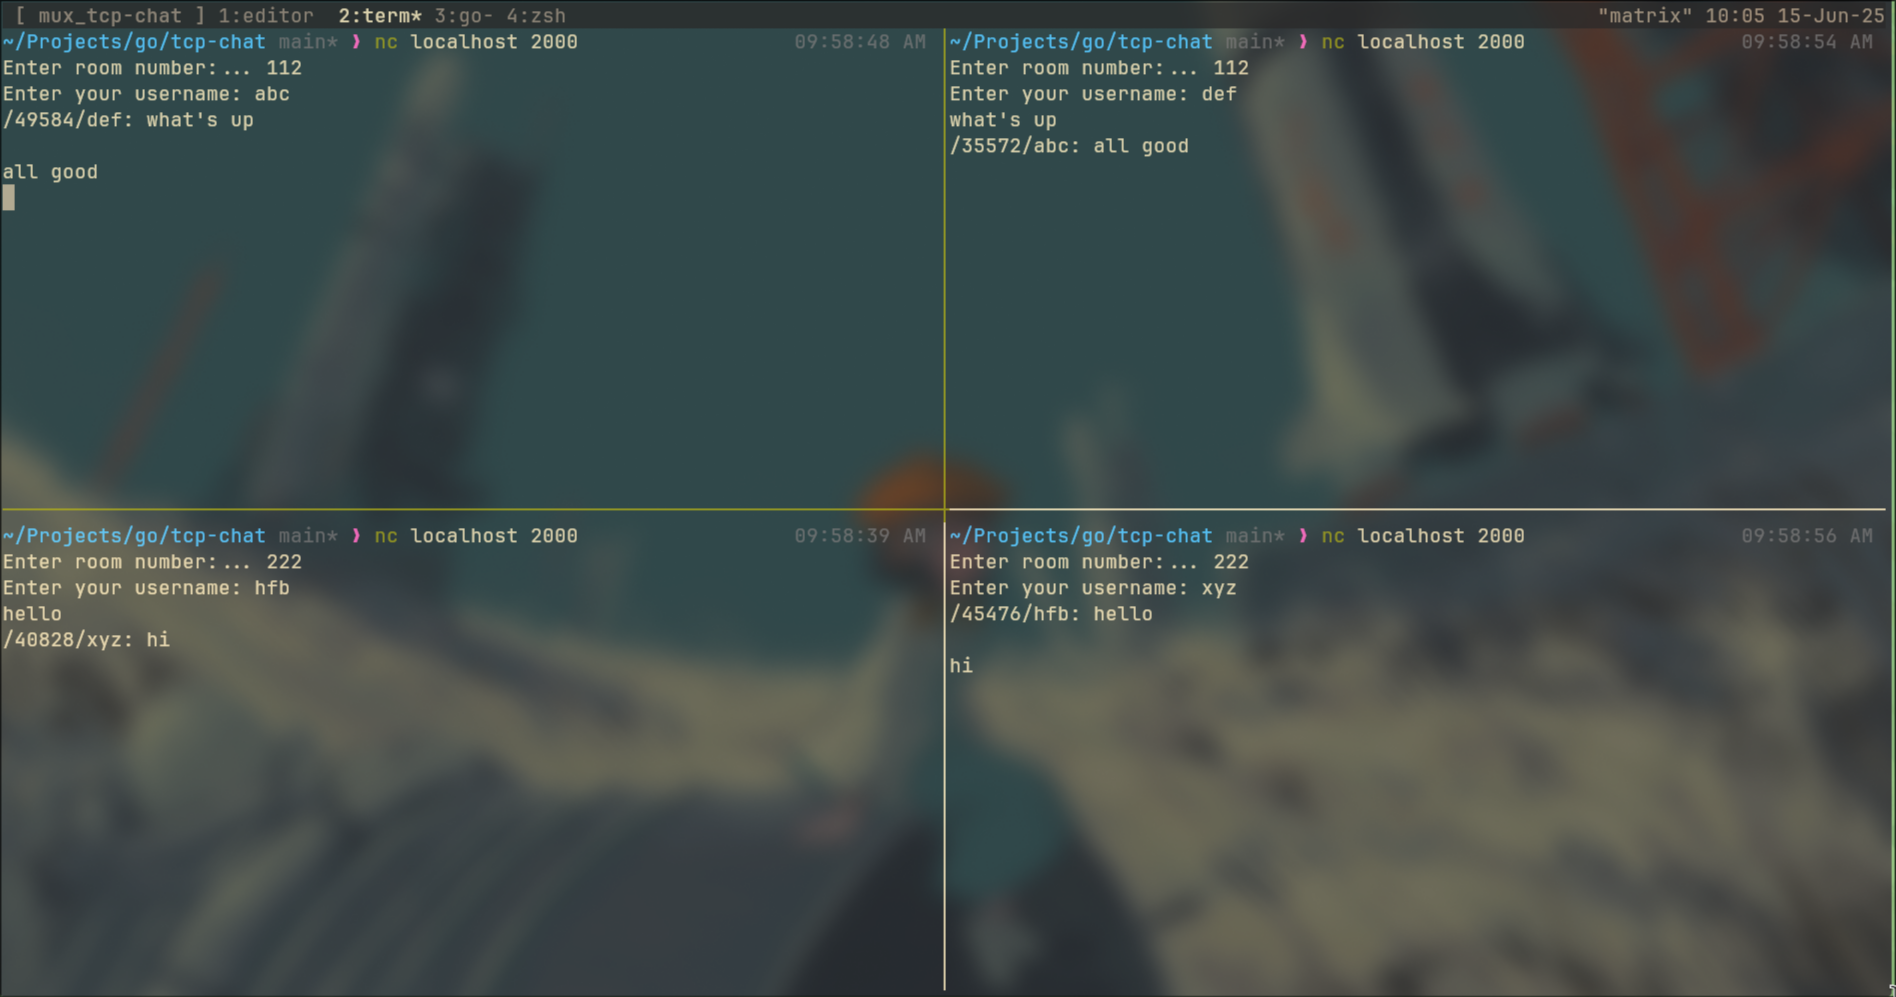
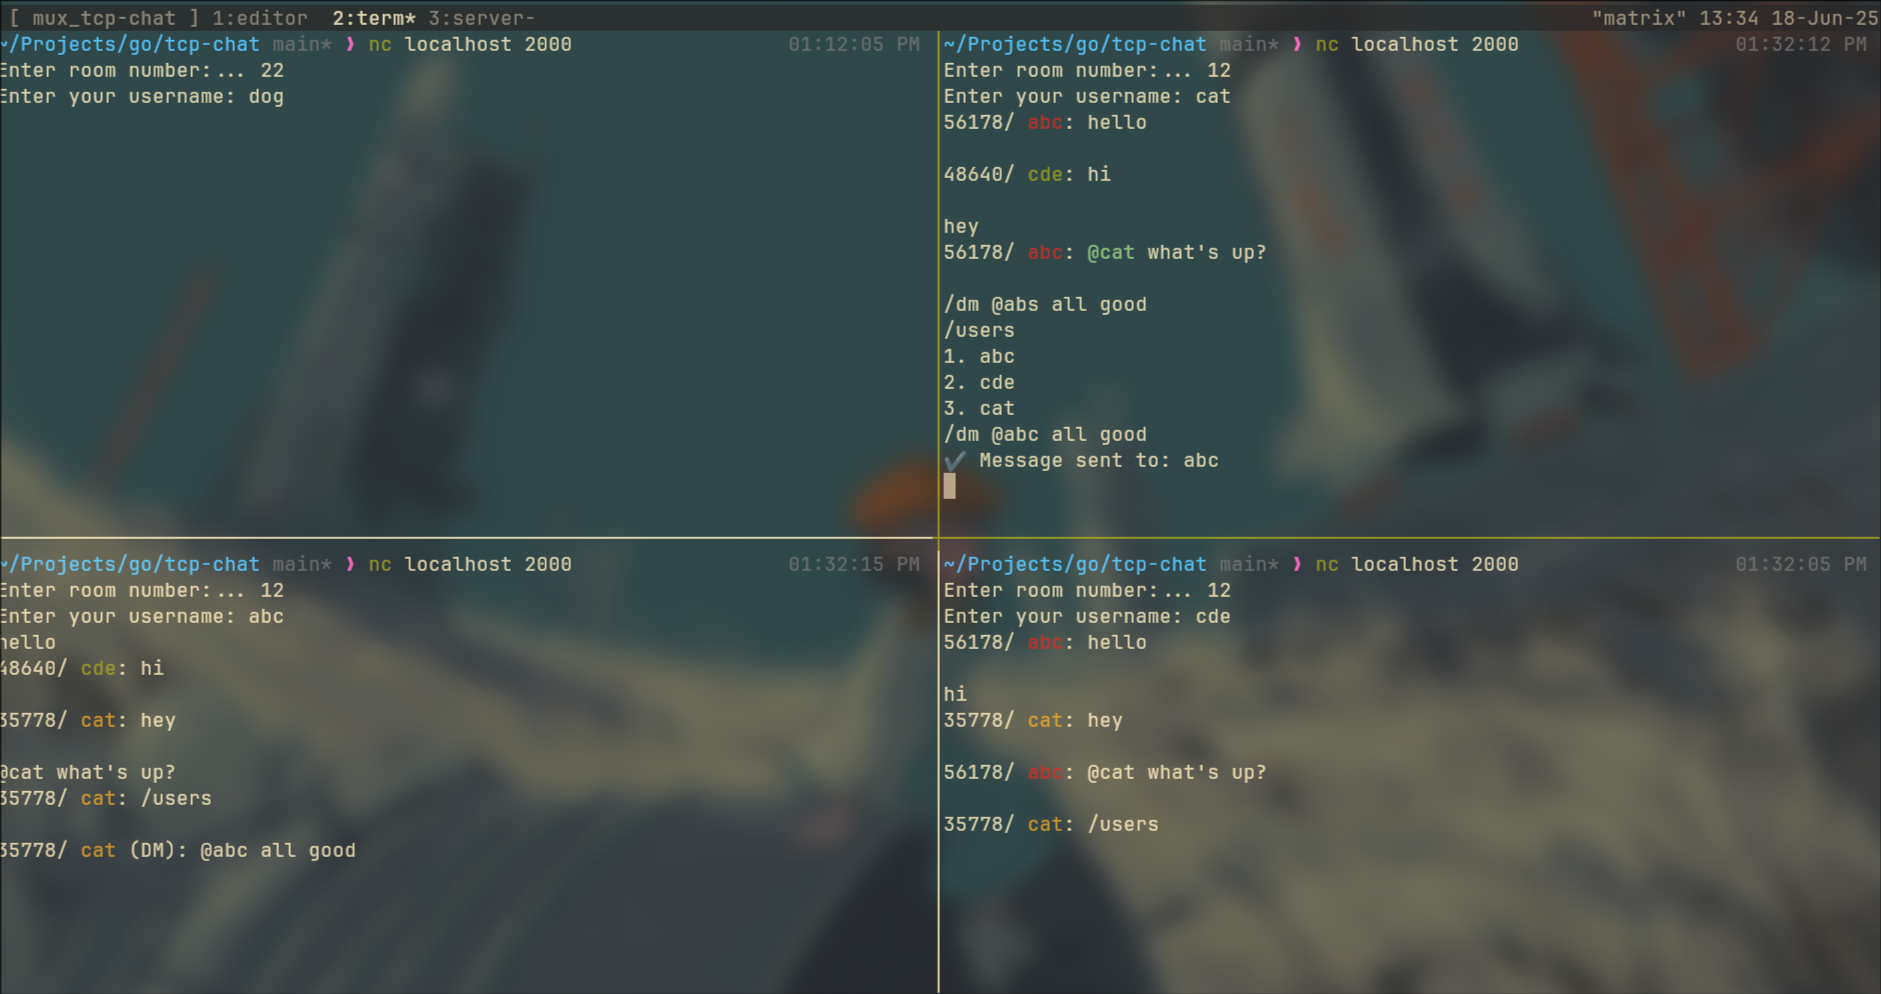
minor fix

diff --git a/room.go b/room.go
@@ -76,7 +76,10 @@ func GetCreateRoom(id RoomId) *Room {
 	return newRoom
 }
 
-func (r *Room) BroadcastMessage(msg string, fromUser string, username string, color string) *ErrorChan {
+func (r *Room) BroadcastMessage(msg string, fromUser string, user *User) *ErrorChan {
+	username := user.Username
+	color := user.Color
+	userConn := *user.conn
 	errChan := ErrorChan{
 		ErrMap: make(map[string]error),
 	}
@@ -104,7 +107,9 @@ func (r *Room) BroadcastMessage(msg string, fromUser string, username string, co
 
 			if isDM {
 				msg = strings.TrimPrefix(msg, "/dm ")
-				msgLine = fmt.Sprintf("%s/%s %s%s%s (DM): %s\n", addstr[len(addstr)-1], reset, color, username, reset, msg)
+				msgLine = fmt.Sprintf("%s/%s %s%s%s (DM): %s\n", addstr[len(addstr)-1], reset, color, user.Username, reset, msg)
+				userConn.Write([]byte("✔ Message sent to: " + usr.Username + "\n"))
+				// userConn.Write([]byte("✔ Message sent to: " + strings.Join(dmTargets, ", ") + "\n"))
 			} else {
 
 				highlightedMsg := msg

diff --git a/main.go b/main.go
@@ -85,7 +85,7 @@ func HandleIncomingConnection(user *User) {
 			user.Room.ListUsers(conn)
 		}
 
-		errC := room.BroadcastMessage(msg, conn.RemoteAddr().String(), user.Username, user.Color)
+		errC := room.BroadcastMessage(msg, conn.RemoteAddr().String(), user)
 		if len(errC.ErrMap) != 0 {
 			log.Println("Some users could not receive the message")
 		}
